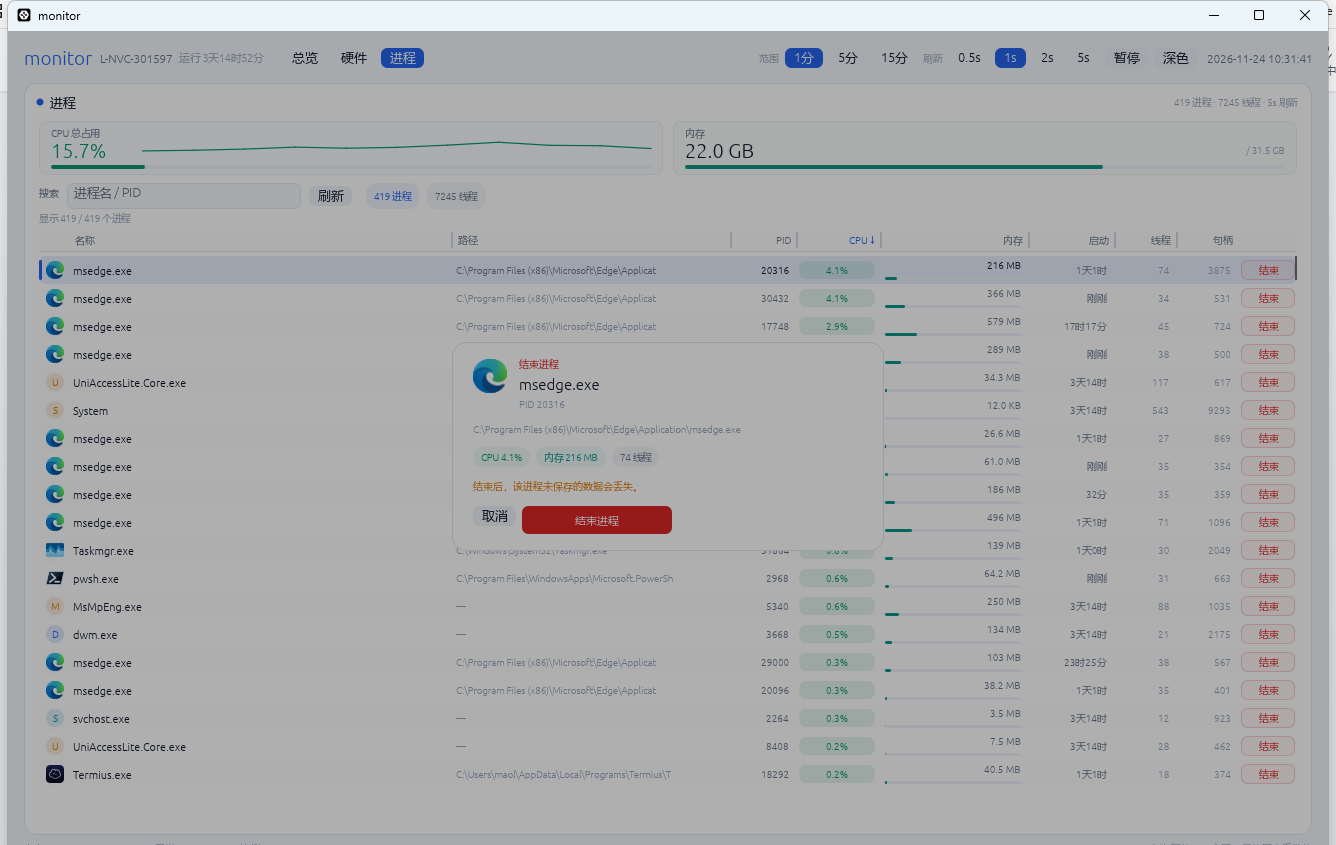
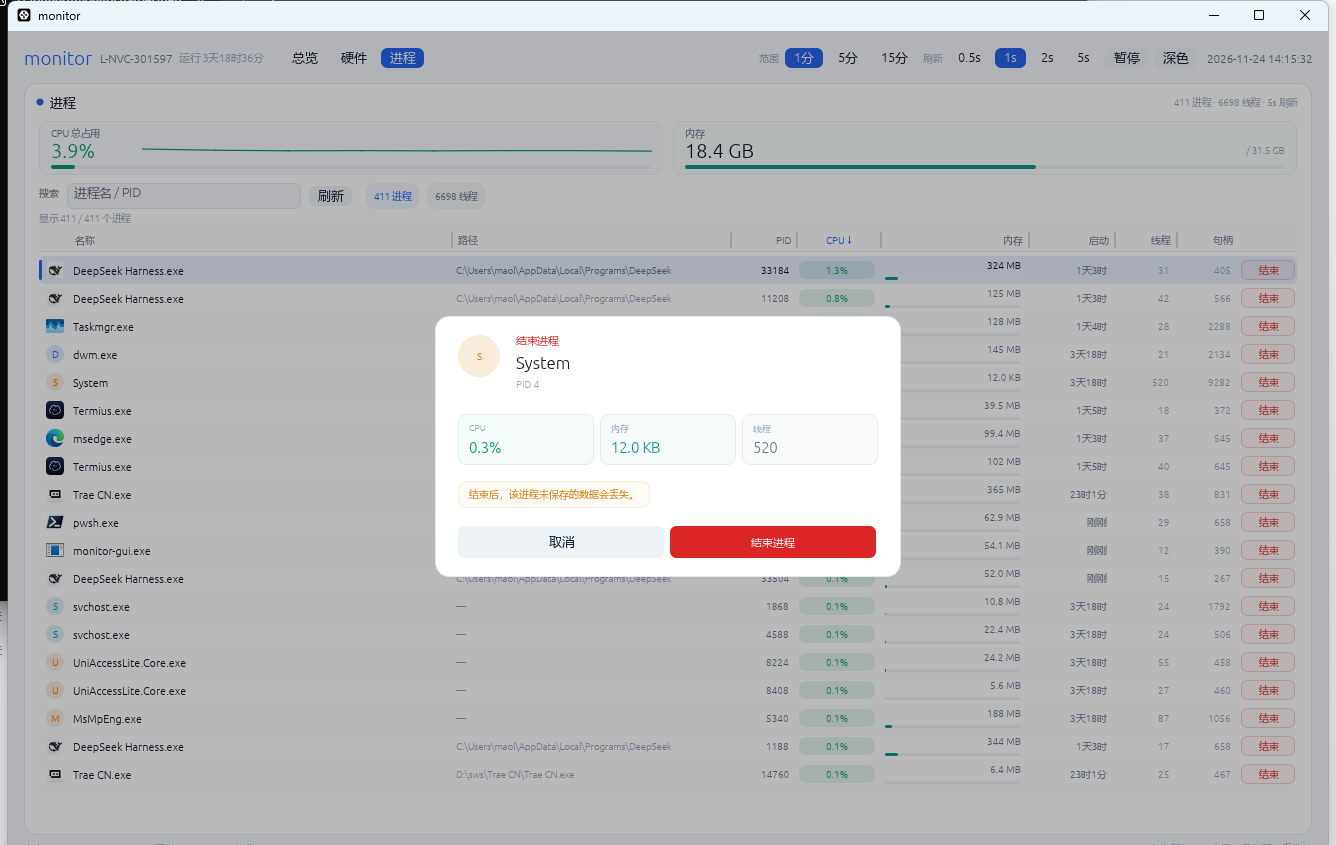
fix: 结束确认改用 Modal，修复黑屏并平衡布局
- 弃用自定义全屏 layer overlay，改用 egui::Modal 的 Foreground + backdrop，避免弹窗被遮黑/遮挡
- 弹窗固定 420 宽：42px 图标 + 名称/PID、三列等宽状态卡、警告条、两枚等宽按钮
- 弹窗截图更新；release: v0.3.2

diff --git a/src/gui/app.rs b/src/gui/app.rs
@@ -859,30 +859,19 @@ impl Dashboard {
             let mut confirm = false;
             let mut cancel = false;
 
-            let screen = ui.ctx().input(|input| input.viewport_rect());
-            let overlay =
-                egui::LayerId::new(egui::Order::Middle, Id::unique("monitor-kill-dim"));
-            ui.ctx()
-                .layer_painter(overlay)
-                .rect_filled(screen, 0.0, Color32::from_black_alpha(80));
-
             let dialog = egui::Frame::new()
                 .fill(theme.card)
                 .stroke(Stroke::new(1.0, theme.border))
                 .corner_radius(14.0)
-                .inner_margin(egui::Margin::symmetric(20, 16));
-            egui::Window::new("结束进程")
-                .id(Id::unique("monitor-kill-confirm"))
-                .title_bar(false)
+                .inner_margin(egui::Margin::symmetric(22, 18));
+            let modal = egui::Modal::new(Id::unique("monitor-kill-confirm"))
+                .backdrop_color(Color32::from_black_alpha(70))
                 .frame(dialog)
-                .collapsible(false)
-                .resizable(false)
-                .anchor(Align2::CENTER_CENTER, vec2(0.0, 0.0))
                 .show(ui.ctx(), |ui| {
-                    ui.set_min_width(390.0);
+                    ui.set_width(420.0);
                     ui.horizontal(|ui| {
                         let (icon_rect, _) =
-                            ui.allocate_exact_size(vec2(34.0, 34.0), Sense::hover());
+                            ui.allocate_exact_size(vec2(42.0, 42.0), Sense::hover());
                         if let Some(icon) = &icon {
                             ui.painter().image(
                                 icon.id(),
@@ -893,16 +882,16 @@ impl Dashboard {
                         } else {
                             paint_fallback_icon(ui.painter(), icon_rect, &name, theme);
                         }
-                        ui.add_space(6.0);
+                        ui.add_space(10.0);
                         ui.vertical(|ui| {
                             ui.label(
                                 RichText::new("结束进程")
-                                    .size(10.0)
+                                    .size(10.5)
                                     .color(theme.bad),
                             );
                             ui.label(
                                 RichText::new(&name)
-                                    .size(15.0)
+                                    .size(17.0)
                                     .strong()
                                     .color(theme.text),
                             );
@@ -916,30 +905,55 @@ impl Dashboard {
                     ui.add_space(8.0);
                     if let Some(path) = &path {
                         ui.label(
-                            RichText::new(format::truncate(path, 62))
+                            RichText::new(format::truncate(path, 64))
                                 .size(9.5)
                                 .color(theme.faint),
                         );
                     }
-                    ui.add_space(6.0);
-                    ui.horizontal(|ui| {
-                        stat_pill(ui, &format!("CPU {cpu:.1}%"), theme.load(cpu));
-                        stat_pill(
-                            ui,
-                            &format!("内存 {}", format::bytes(memory)),
-                            theme.memory,
+                    ui.add_space(10.0);
+                    ui.columns_const::<3, _>(|columns| {
+                        dialog_stat(
+                            &mut columns[0],
+                            "CPU",
+                            &format!("{cpu:.1}%"),
+                            theme.load(cpu),
+                            theme,
                         );
-                        stat_pill(ui, &format!("{threads} 线程"), theme.dim);
+                        dialog_stat(
+                            &mut columns[1],
+                            "内存",
+                            &format::bytes(memory),
+                            theme.memory,
+                            theme,
+                        );
+                        dialog_stat(
+                            &mut columns[2],
+                            "线程",
+                            &threads.to_string(),
+                            theme.dim,
+                            theme,
+                        );
                     });
-                    ui.add_space(8.0);
-                    ui.label(
-                        RichText::new("结束后，该进程未保存的数据会丢失。")
-                            .size(10.0)
-                            .color(theme.warn),
-                    );
-                    ui.add_space(8.0);
+                    ui.add_space(10.0);
+                    egui::Frame::new()
+                        .fill(Theme::alpha(theme.warn, 8))
+                        .stroke(Stroke::new(1.0, Theme::alpha(theme.warn, 35)))
+                        .corner_radius(8.0)
+                        .inner_margin(egui::Margin::symmetric(10, 7))
+                        .show(ui, |ui| {
+                            ui.label(
+                                RichText::new("结束后，该进程未保存的数据会丢失。")
+                                    .size(10.0)
+                                    .color(theme.warn),
+                            );
+                        });
+                    ui.add_space(12.0);
+                    let button_width = (ui.available_width() - 8.0) * 0.5;
                     ui.horizontal(|ui| {
-                        if ui.button("取消").clicked() {
+                        if ui
+                            .add_sized([button_width, 32.0], egui::Button::new("取消"))
+                            .clicked()
+                        {
                             cancel = true;
                         }
                         let end = egui::Button::new(
@@ -947,12 +961,12 @@ impl Dashboard {
                         )
                         .fill(theme.bad)
                         .stroke(Stroke::new(1.0, theme.bad));
-                        if ui.add_sized([150.0, 28.0], end).clicked() {
+                        if ui.add_sized([button_width, 32.0], end).clicked() {
                             confirm = true;
                         }
                     });
                 });
-            if ui.ctx().input(|input| input.key_pressed(egui::Key::Escape)) {
+            if modal.should_close() {
                 cancel = true;
             }
             if confirm {
@@ -1861,6 +1875,25 @@ fn paint_sparkline(painter: &Painter, rect: Rect, values: &[f32], max: f32, colo
         }
         previous = Some(point);
     }
+}
+
+fn dialog_stat(
+    ui: &mut Ui,
+    label: &str,
+    value: &str,
+    color: Color32,
+    theme: &Theme,
+) {
+    egui::Frame::new()
+        .fill(Theme::alpha(color, 10))
+        .stroke(Stroke::new(1.0, Theme::alpha(color, 35)))
+        .corner_radius(8.0)
+        .inner_margin(egui::Margin::symmetric(10, 8))
+        .show(ui, |ui| {
+            ui.set_width(ui.available_width());
+            ui.label(RichText::new(label).size(9.0).color(theme.faint));
+            ui.label(RichText::new(value).size(14.5).strong().color(color));
+        });
 }
 
 fn stat_pill(ui: &mut Ui, label: &str, color: Color32) {
